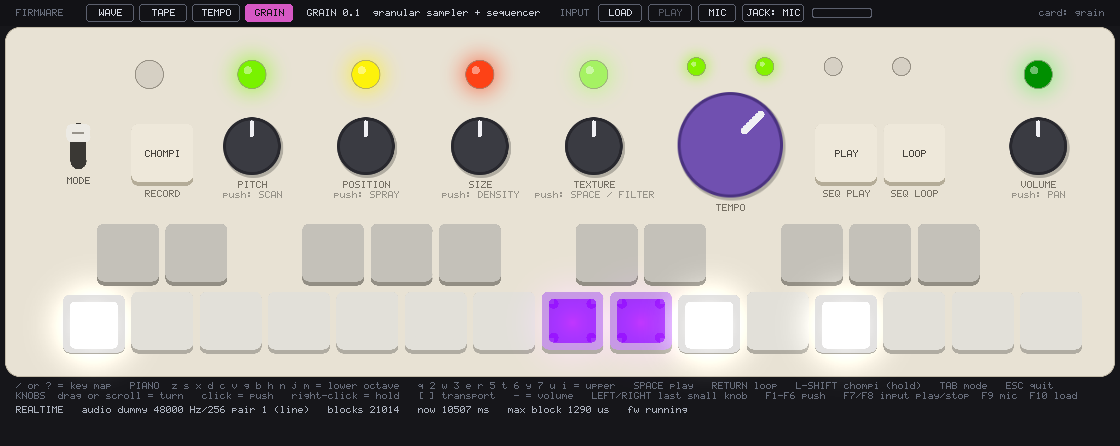
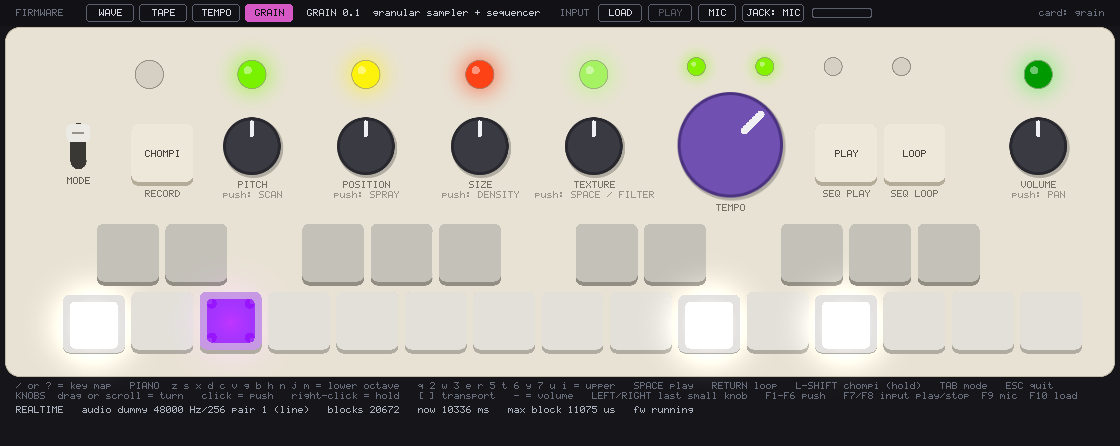
GRAIN: the factory TAPE samples are the default card
scripts/make-grain-card.py now fills the fourteen sounds with the factory
TAPE samples from the checkout (bank A of the cubbi instrument, in order;
--instrument and --bank pick others, --tape another card) and only falls
back to the four synthetic sounds when no TAPE card is found or --synthetic
is given. The loader leaves TAPE's _double copies out, so a TAPE factory
card plays in GRAIN as it is. Docs and the GRAIN screenshot updated.

Claude-Session: https://claude.ai/code/session_01Dp3X1K9YrRtikm9LtFwPLs

Changed region(s): [[0.4688, 0.6413, 0.625, 0.787], [0.1562, 0.6413, 0.25, 0.787], [0.5, 0.9036, 0.625, 0.9327]]

diff --git a/scripts/make-grain-card.py b/scripts/make-grain-card.py
@@ -1,11 +1,18 @@
 #!/usr/bin/env python3
-"""Makes a card folder for the GRAIN firmware: a few synthetic sounds as
-48 kHz 16-bit WAV files (the format the firmware loads), named so they land
-in sounds 1..4. Any 48 kHz 16-bit mono or stereo WAV works; drop your own in.
-    scripts/make-grain-card.py DIR [--from-tape third_party/CHOMPI/firmware/card-profiles/tape-2.0]
---from-tape also copies the first ten factory TAPE samples (already 48 kHz 16-bit stereo)."""
-import math, os, random, struct, sys, wave, shutil, glob
+"""Makes a card folder for the GRAIN firmware.
 
+By default it fills the fourteen sounds with the factory TAPE samples (bank A
+of the cubbi instrument, 48 kHz 16-bit stereo) from the CHOMPI checkout, in
+order, and writes the marker file the simulator's launcher reads the firmware
+name from. Any 48 kHz 16-bit mono or stereo WAV works; drop your own in.
+
+    scripts/make-grain-card.py DIR [--tape CARD] [--instrument cubbi|jammi] [--bank a|b|c] [--synthetic]
+
+--tape       the TAPE card folder (default: third_party/CHOMPI/firmware/card-profiles/tape-2.0,
+             fetched by scripts/fetch-firmware.sh)
+--synthetic  four synthetic sounds (a pluck, a voice, rain, a bell) instead of the samples;
+             also what you get when no TAPE card is found"""
+import math, os, random, struct, sys, wave, shutil, glob, re
 RATE = 48000
 
 def write_wav(path, frames, channels=1):
@@ -74,26 +81,44 @@ def bell(seconds=3.0, hz=261.6256):
         out.append(0.45 * s * min(1.0, t / 0.002))
     return out
 
+def arg(name, default=None):
+    if name in sys.argv:
+        i = sys.argv.index(name)
+        if i + 1 < len(sys.argv):
+            return sys.argv[i + 1]
+    return default
+
 def main():
-    if len(sys.argv) < 2:
+    if len(sys.argv) < 2 or sys.argv[1].startswith("--"):
         print(__doc__); sys.exit(2)
     out = sys.argv[1]
     os.makedirs(out, exist_ok=True)
-    write_wav(os.path.join(out, "01_pluck_c3.wav"), pluck())
-    write_wav(os.path.join(out, "02_voice.wav"), voice())
-    write_wav(os.path.join(out, "03_rain.wav"), texture(), channels=2)
-    write_wav(os.path.join(out, "04_bell_c4.wav"), bell())
+    root = os.path.dirname(os.path.dirname(os.path.abspath(__file__)))
+    tape = arg("--tape", os.path.join(root, "third_party", "CHOMPI", "firmware", "card-profiles", "tape-2.0"))
+    instrument = arg("--instrument", "cubbi")
+    bank = arg("--bank", "a")
+    synthetic = "--synthetic" in sys.argv
+    n = 0
+    if not synthetic:
+        files = glob.glob(os.path.join(tape, "%s_%s*.wav" % (instrument, bank)))
+        files = [f for f in files if "_double" not in f]
+        files.sort(key=lambda f: int(re.search(r"(\d+)\.wav$", f).group(1)))
+        if not files:
+            print("no TAPE samples at %s (run scripts/fetch-firmware.sh tape, or pass --tape CARD); "
+                  "making the synthetic sounds instead" % tape)
+            synthetic = True
+        for f in files[:14]:
+            n += 1
+            shutil.copy(f, os.path.join(out, "%02d_%s" % (n, os.path.basename(f))))
+    if synthetic:
+        write_wav(os.path.join(out, "01_pluck_c3.wav"), pluck())
+        write_wav(os.path.join(out, "02_voice.wav"), voice())
+        write_wav(os.path.join(out, "03_rain.wav"), texture(), channels=2)
+        write_wav(os.path.join(out, "04_bell_c4.wav"), bell())
+        n = 4
     with open(os.path.join(out, "CHOMPI_GRAIN.txt"), "w") as f:
         f.write("A card for the GRAIN firmware: the simulator's launcher reads the firmware name off this file.\n")
-    n = 4
-    if "--from-tape" in sys.argv:
-        src = sys.argv[sys.argv.index("--from-tape") + 1]
-        for i, f in enumerate(sorted(glob.glob(os.path.join(src, "cubbi_a*.wav")))[:10]):
-            if "double" in f:
-                continue
-            shutil.copy(f, os.path.join(out, "%02d_%s" % (n + 1, os.path.basename(f))))
-            n += 1
-    print("wrote %d sounds to %s" % (n, out))
+    print("wrote %d sounds to %s%s" % (n, out, "" if synthetic else " (TAPE %s bank %s)" % (instrument, bank)))
 
 if __name__ == "__main__":
     main()

diff --git a/firmware/grain/code/src/GrainEngine.h b/firmware/grain/code/src/GrainEngine.h
@@ -183,7 +183,8 @@ namespace grain
 
         void setFileManager(FileStreamingManager* fm) { file_manager = fm; }
 
-        /** The first kMaxFromCard .wav files in name order, with a readable header. */
+        /** The first kMaxFromCard .wav files in name order (TAPE's _double copies
+         *  left out), with a readable header. */
         void scanCard()
         {
             DIR     dir;
@@ -198,8 +199,8 @@ namespace grain
                     continue;
                 const char* ext = fno.fname + n - 4;
                 if((ext[0] == '.') && (ext[1] == 'w' || ext[1] == 'W') && (ext[2] == 'a' || ext[2] == 'A')
-                   && (ext[3] == 'v' || ext[3] == 'V'))
-                    found.push_back(fno.fname);
+                   && (ext[3] == 'v' || ext[3] == 'V') && !strstr(fno.fname, "_double"))
+                    found.push_back(fno.fname); // TAPE's _double files are the same sounds an octave up
             }
             f_closedir(&dir);
             std::sort(found.begin(), found.end());

diff --git a/README.md b/README.md
@@ -285,10 +285,12 @@ others (`chompi-sim-gui-grain`, `chompi-sim-grain`).
 
 Sounds live in SDRAM as 48 kHz 16-bit stereo, up to ten seconds each: the
 first fourteen `.wav` files on the card in name order (48 kHz 16-bit PCM, mono
-or stereo; anything else is skipped) plus one recorded from the inputs.
-`scripts/make-grain-card.py DIR` makes a card with four synthetic sounds and
-the marker file the launcher reads the firmware name from; `--from-tape
-third_party/CHOMPI/firmware/card-profiles/tape-2.0` adds factory TAPE samples.
+or stereo; anything else is skipped, as are TAPE's `_double` copies) plus one
+recorded from the inputs. `scripts/make-grain-card.py cards/grain` makes a
+card from the factory TAPE samples in the checkout (bank A of the cubbi
+instrument; `--instrument jammi`, `--bank b` pick others) and writes the
+marker file the launcher reads the firmware name from; `--synthetic` makes
+four synthetic sounds instead. A TAPE factory card works directly too.
 
 Each held key plays a cloud of up to twelve grains from the selected sound,
 at the key's pitch relative to the middle key, which plays the sound at its
